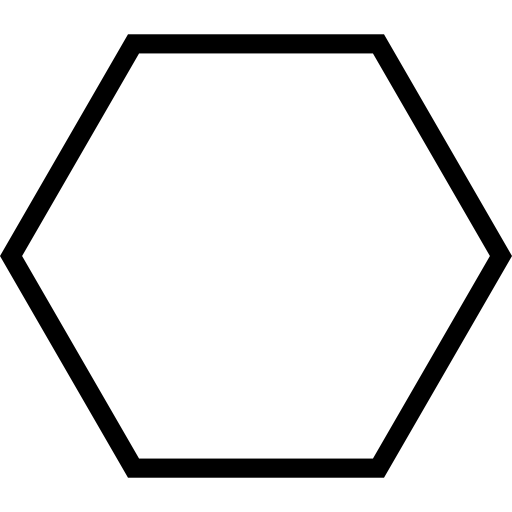
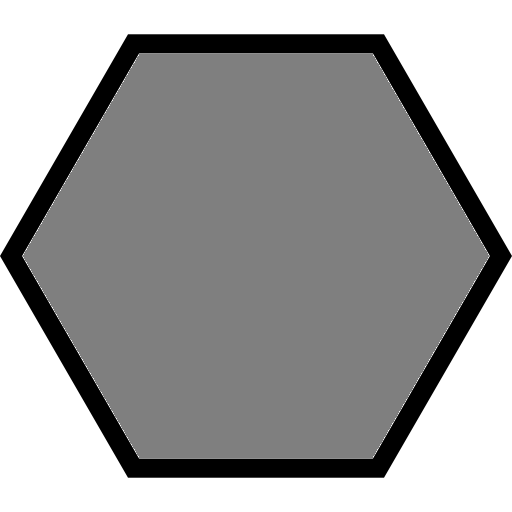
Clicking mines works

diff --git a/driver.py b/driver.py
@@ -7,12 +7,15 @@ driver.py: does stuff
 __author__ = "Max Hariri-Turner"
 __email__ = "maxkht8@gmail.com"
 
+from random import randint
+
 import pyglet
 import logging
 import os
 import datetime
 import json
 import math
+
 
 from pyglet.window import key
 from pyglet.gl import glClearColor
@@ -36,39 +39,65 @@ HEX_SCALE = 0.1
 
 # Global variables
 LOG = logging.getLogger(LOG_NAME)
-window = pyglet.window.Window(WIDTH, HEIGHT, "hexsweeper", resizable=True)
+window = pyglet.window.Window(width=WIDTH, height=HEIGHT, caption="hexsweeper", resizable=True)
 event_loop = pyglet.app.EventLoop()
 config = {"log_dir": "logs/", "log_ext": ".txt"}
-draw = []
 grid = []
+grid_batch = pyglet.graphics.Batch()
+draw = []
+mines = []
 
 
 def main():
+    # Initialize crap
     initialize_log()
     load_config()
     initialize()
-    generate_hexagonal_grid(3)
-    hex_image = pyglet.image.load("resources/hex.png")
-    center_image(hex_image)
-    hex_sprite = pyglet.sprite.Sprite(img=hex_image, x=WIDTH / 2, y=HEIGHT / 2)
-    hex_sprite.update(scale=HEX_SCALE)
-    window.set_icon(hex_image)
+
+    # Generate the grid
+    generate_hexagonal_grid(5)
+
+    # Generate mines
+    generate_mines(5)
+
+    # Set icon
+    window.set_icon(pyglet.image.load("resources/hex.png"))
 
     # Set background to white
     glClearColor(255, 255, 255, 1.0)
 
-    draw.append(hex_sprite)
+    # Initial rendering pass for cells
+    for cell in grid:
+        cell.render(HEX_SCALE, window.width, window.height)
+
+    pyglet.clock.schedule_interval(func=update, interval=1/60)
     pyglet.app.run()
 
 
 def generate_hexagonal_grid(radius):
-    for h in range(-radius, radius+1):
-        for k in range(-radius, radius+1):
+    LOG.debug(f"Generating hexagonal grid with radius {radius}")
+    for h in range(-radius, radius + 1):
+        for k in range(-radius, radius + 1):
             if h * k > 0 and abs(h + k) > radius:
                 LOG.debug(f"Skipped cell at ({h}, {k})")
             else:
                 grid.append(HexCell(h, k))
                 LOG.debug(f"Generating cell at ({h}, {k})")
+
+
+def generate_mines(number):
+    for i in range(0, number):
+        retry = True
+        while retry:
+            target = randint(0, len(grid))
+            if not grid[target].get_mine():
+                retry = False
+                grid[target].set_mine()
+                mines.append(grid[target])
+
+
+def update(dt):
+    return
 
 
 def initialize():
@@ -114,17 +143,33 @@ def load_config():
 @window.event
 def on_draw():
     window.clear()
-    for drawable in draw:
-        drawable.draw()
-    hex_image = pyglet.image.load("resources/hex.png")
-    center_image(hex_image)
-    for hex in grid:
-        hex_sprite = pyglet.sprite.Sprite(img=hex_image, x=WIDTH / 2, y=HEIGHT / 2)
-        if hex_image.width != hex_image.height:
-            LOG.warning("Hex sprite height and width are not equal, this should never be the case")
-        diameter = hex_image.width * HEX_SCALE
-        hex_sprite.update(scale=HEX_SCALE, x=WIDTH / 2 + hex.get_x(diameter), y=HEIGHT / 2 + hex.get_y(diameter))
-        hex_sprite.draw()
+    for cell in grid:
+        cell.get_sprite().draw()
+
+@window.event
+def on_mouse_motion(x, y, dx, dy):
+    for cell in grid:
+        if cell.alive():
+            sprite = cell.get_sprite()
+            radius = sprite.image.height * HEX_SCALE / 2
+            # Pythagorean theorem moment pog
+            distance = math.sqrt((x - sprite.x)**2 + (y - sprite.y)**2)
+            if distance < radius:
+                cell.hover()
+            else:
+                cell.unhover()
+
+
+@window.event
+def on_mouse_press(x, y, dx, dy):
+    for cell in grid:
+        if cell.alive():
+            sprite = cell.get_sprite()
+            radius = sprite.image.height * HEX_SCALE / 2
+            # Pythagorean theorem moment pog
+            distance = math.sqrt((x - sprite.x)**2 + (y - sprite.y)**2)
+            if distance < radius:
+                cell.mine()
 
 
 @window.event

diff --git a/hex_cell.py b/hex_cell.py
@@ -8,24 +8,39 @@ __author__ = "Max Hariri-Turner"
 __email__ = "maxkht8@gmail.com"
 
 import math
+import pyglet
 
 # Constants
-sin_30 = math.sin(math.radians(30))
-cos_30 = math.cos(math.radians(30))
+SIN_30 = math.sin(math.radians(30))
+COS_30 = math.cos(math.radians(30))
+HEX_IMAGE = pyglet.image.load("resources/hex.png")
+HEX_IMAGE.anchor_x = HEX_IMAGE.width // 2
+HEX_IMAGE.anchor_y = HEX_IMAGE.height // 2
+HEX_HOVER = pyglet.image.load("resources/hex_hover.png")
+HEX_HOVER.anchor_x = HEX_HOVER.width // 2
+HEX_HOVER.anchor_y = HEX_HOVER.height // 2
+HEX_CLEAR = pyglet.image.load("resources/hex_clear.png")
+HEX_CLEAR.anchor_x = HEX_CLEAR.width // 2
+HEX_CLEAR.anchor_y = HEX_CLEAR.height // 2
+HEX_BLOWN = pyglet.image.load("resources/hex_blown.png")
+HEX_BLOWN.anchor_x = HEX_BLOWN.width // 2
+HEX_BLOWN.anchor_y = HEX_BLOWN.height // 2
 
 # Instance variables
 h = 0
 k = 0
+sprite = None
+is_mine = None
+is_live = None
 
 
 class HexCell(object):
-    def __init__(self):
-        self.h = 0
-        self.k = 0
-
     def __init__(self, major, minor):
         self.h = major
         self.k = minor
+        self.sprite = pyglet.sprite.Sprite(img=HEX_IMAGE)
+        self.is_mine = False
+        self.is_live = True
 
     def get_h(self):
         return self.h
@@ -34,7 +49,42 @@ class HexCell(object):
         return self.k
 
     def get_x(self, diameter):
-        return self.k * diameter * cos_30
+        return self.k * diameter * COS_30
 
     def get_y(self, diameter):
-        return self.h * diameter + self.k * diameter * sin_30
+        return self.h * diameter + self.k * diameter * SIN_30
+
+    def alive(self):
+        return self.is_live
+
+    def render(self, scale, window_width, window_height):
+        diameter = HEX_IMAGE.width * scale
+        self.sprite.update(scale=scale, x=window_width / 2 + self.get_x(diameter),
+                           y=window_height / 2 + self.get_y(diameter))
+
+    def get_sprite(self):
+        return self.sprite
+
+    def hover(self):
+        image = HEX_HOVER
+        self.sprite.image = image
+
+    def unhover(self):
+        image = HEX_IMAGE
+        self.sprite.image = image
+
+    def get_mine(self):
+        return self.is_mine
+
+    def set_mine(self):
+        self.is_mine = True
+
+    def mine(self):
+        self.is_live = False
+        if not self.is_mine:
+            image = HEX_CLEAR
+            self.sprite.image = image
+        else:
+            image = HEX_BLOWN
+            self.sprite.image = image
+        return self.is_mine
